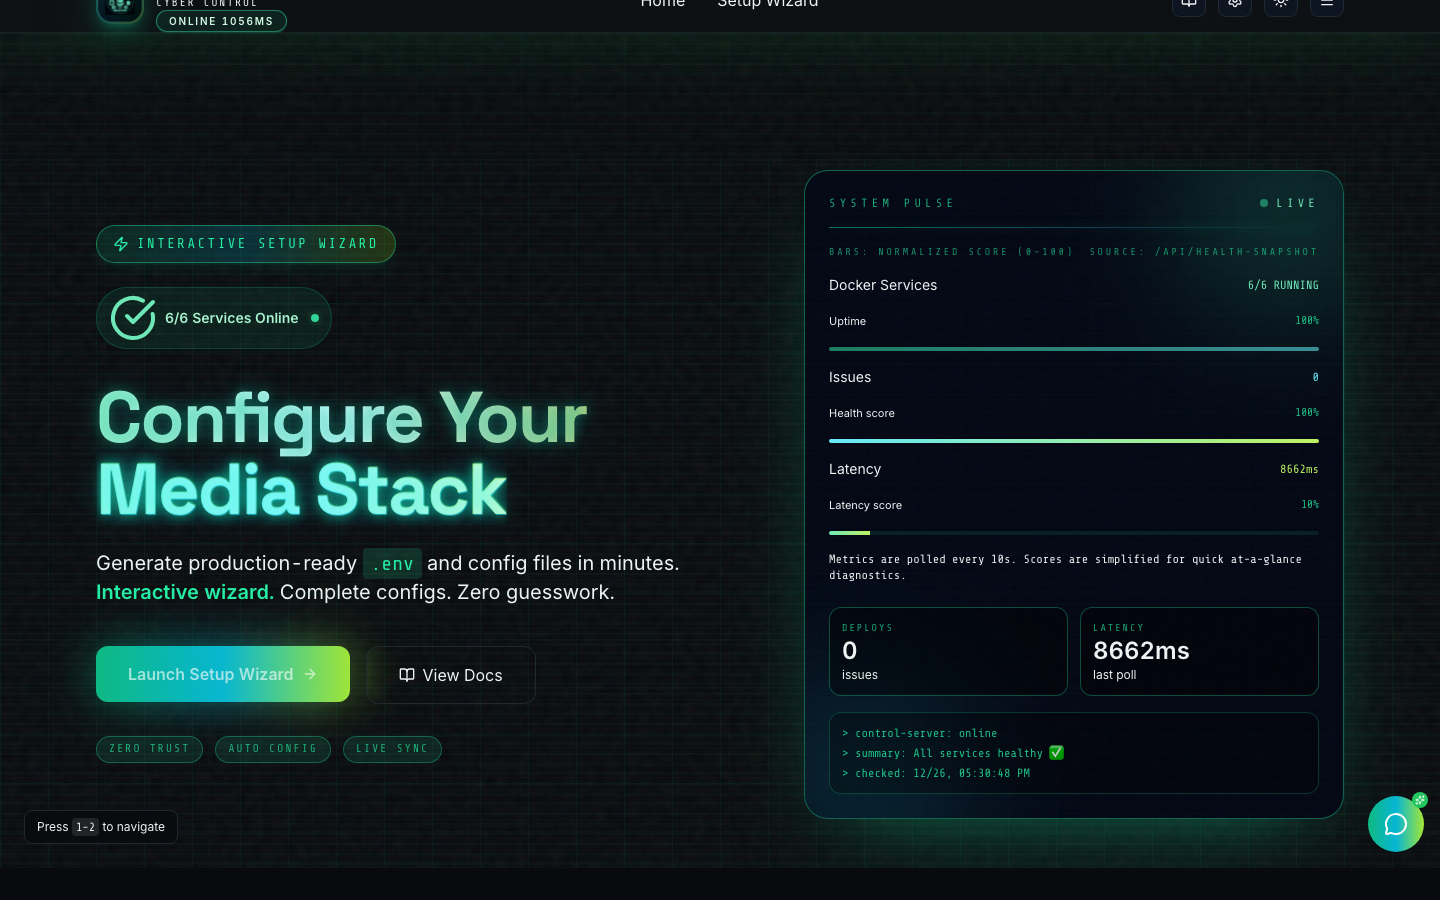
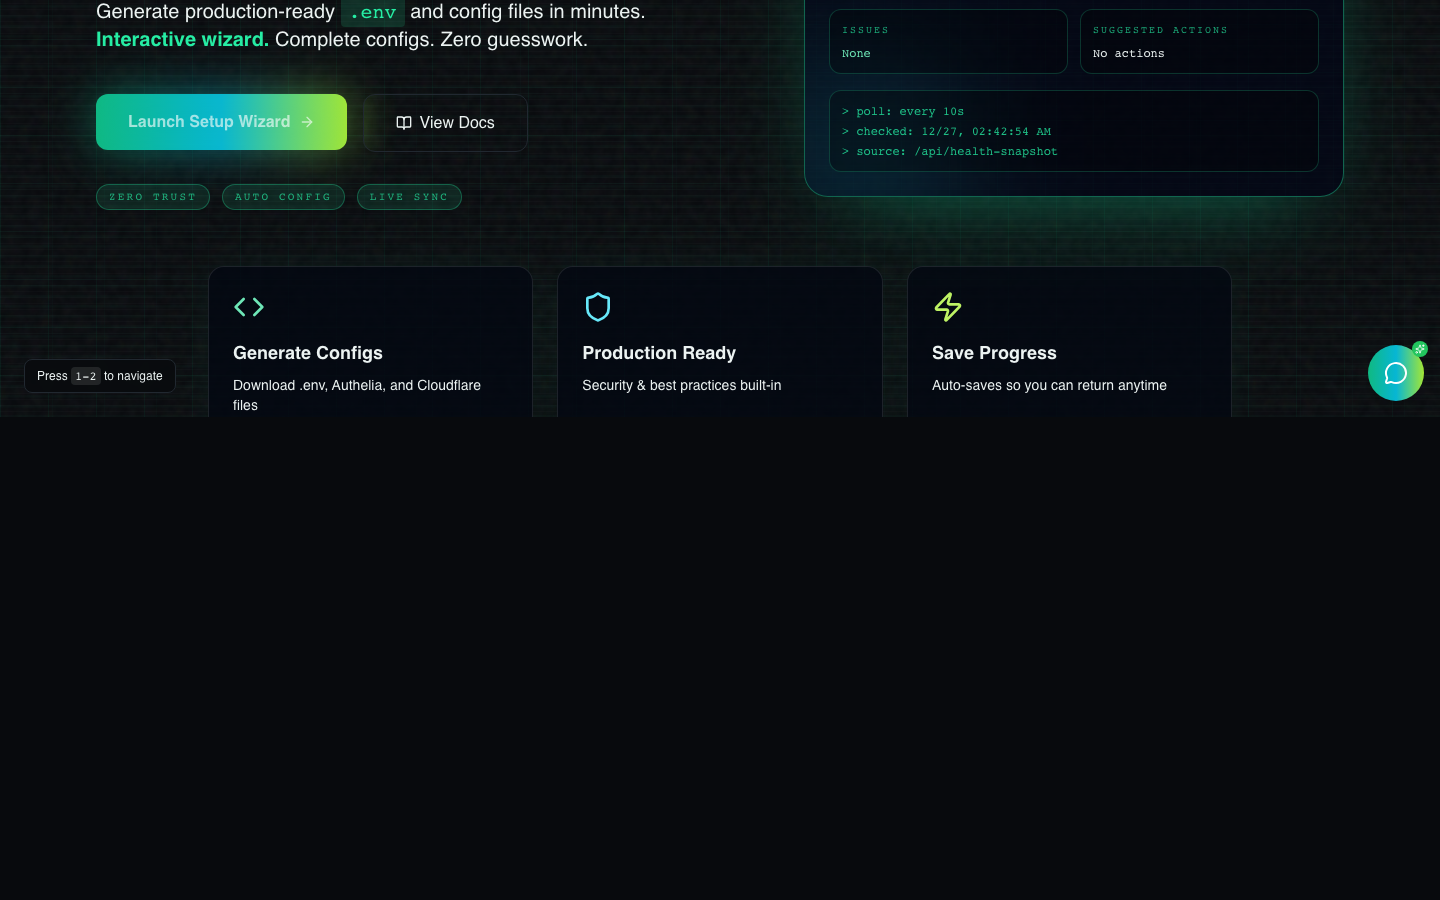
Update docs for TTS, compose commands, and screenshots
Documentation updated to clarify TTS provider defaults (OpenAI with optional ElevenLabs), add new control server endpoints, and improve instructions for storing API keys in Settings. Docker Compose commands are now shown in the modern 'docker compose' format. App list in architecture docs is expanded and clarified. All screenshots and UI images have been refreshed to match the current UI.

diff --git a/docs/architecture/APPS.md b/docs/architecture/APPS.md
@@ -1,26 +1,33 @@
 # Installed Docker Applications
 
-| Application | Docker Image | Version Tag | Description |
+| Application | Docker Image | Tag | Purpose |
 | :--- | :--- | :--- | :--- |
-| **Control Server** | `local/control-server` | `latest` | Orchestration & AI Backend |
-| **Docs Site** | `local/docs-site` | `latest` | Interactive Setup & Guides |
-| **Authelia** | `authelia/authelia` | `latest` | Authentication & Authorization |
-| **Bazarr** | `lscr.io/linuxserver/bazarr` | `latest` | Subtitle Management |
-| **Cloudflared** | `cloudflare/cloudflared` | `latest` | Cloudflare Tunnel Client |
-| **Dozzle** | `amir20/dozzle` | `latest` | Real-time Log Viewer |
-| **FlareSolverr** | `ghcr.io/flaresolverr/flaresolverr` | `latest` | Cloudflare Challenge Solver |
-| **Gluetun** | `qmcgaw/gluetun` | `latest` | VPN Client |
-| **Homepage** | `ghcr.io/gethomepage/homepage` | `latest` | Application Dashboard |
-| **Jellyfin** | `jellyfin/jellyfin` | `latest` | Media Server |
-| **Notifiarr** | `golift/notifiarr` | `latest` | Notifications (Discord) |
-| **Overseerr** | `lscr.io/linuxserver/overseerr` | `latest` | Media Request Management |
-| **Plex** | `lscr.io/linuxserver/plex` | `latest` | Media Server |
-| **Portainer** | `portainer/portainer-ce` | `latest` | Docker Management UI |
-| **Prowlarr** | `lscr.io/linuxserver/prowlarr` | `latest` | Indexer Manager |
-| **qBittorrent** | `lscr.io/linuxserver/qbittorrent` | `latest` | Torrent Client |
-| **Radarr** | `lscr.io/linuxserver/radarr` | `latest` | Movie Management |
-| **Redis** | `redis` | `alpine` | In-memory Data Store |
-| **Sonarr** | `lscr.io/linuxserver/sonarr` | `latest` | TV Show Management |
-| **Tautulli** | `lscr.io/linuxserver/tautulli` | `latest` | Plex Statistics |
-| **Tdarr** | `ghcr.io/haveagitgat/tdarr` | `latest` | Distributed Transcoding |
-| **Watchtower** | `containrrr/watchtower` | `latest` | Container Auto-updater |
+| Traefik | `traefik` | `v3.2` | Reverse proxy + routing |
+| Cloudflared | `cloudflare/cloudflared` | `latest` | Cloudflare Tunnel connector |
+| Authelia | `authelia/authelia` | `latest` | SSO/MFA in front of routes |
+| Redis | `redis` | `alpine` | Session store for Authelia |
+| Homepage | `ghcr.io/gethomepage/homepage` | `latest` | Dashboard landing page |
+| Portainer | `portainer/portainer-ce` | `latest` | Docker management UI |
+| Dozzle | `amir20/dozzle` | `latest` | Browser log viewer |
+| Watchtower | `containrrr/watchtower` | `latest` | Auto-update containers (optional) |
+| Autoheal | `willfarrell/autoheal` | `latest` | Restart unhealthy containers (optional) |
+| Postgres | `postgres` | `16-alpine` | Database for *Arr apps |
+| Sonarr | `lscr.io/linuxserver/sonarr` | `latest` | TV automation |
+| Radarr | `lscr.io/linuxserver/radarr` | `latest` | Movie automation |
+| Prowlarr | `lscr.io/linuxserver/prowlarr` | `latest` | Indexer manager |
+| Overseerr | `lscr.io/linuxserver/overseerr` | `latest` | Media request UI |
+| Bazarr | `lscr.io/linuxserver/bazarr` | `latest` | Subtitle manager |
+| qBittorrent | `lscr.io/linuxserver/qbittorrent` | `latest` | Torrent client |
+| Gluetun | `qmcgaw/gluetun` | `latest` | VPN boundary + kill-switch |
+| FlareSolverr | `ghcr.io/flaresolverr/flaresolverr` | `latest` | Bypass Cloudflare challenges |
+| Plex | `lscr.io/linuxserver/plex` | `latest` | Media server (Plex) |
+| Jellyfin | `jellyfin/jellyfin` | `latest` | Media server (open-source) |
+| Tautulli | `lscr.io/linuxserver/tautulli` | `latest` | Plex analytics |
+| Tdarr | `ghcr.io/haveagitgat/tdarr` | `latest` | Distributed transcoding |
+| Audiobookshelf | `lscr.io/linuxserver/audiobookshelf` | `latest` | Audiobooks/podcasts |
+| Kavita | `lscr.io/linuxserver/kavita` | `latest` | Comics/ebooks server |
+| Mealie | `ghcr.io/mealie-recipes/mealie` | `latest` | Recipe manager |
+| PhotoPrism | `lscr.io/linuxserver/photoprism` | `latest` | Photo management |
+| Notifiarr | `golift/notifiarr` | `latest` | Alerts/notifications |
+
+Wizard components (`control-server`, `docs-site`) run only in `docker-compose.wizard*.yml` and are not part of the primary stack above.

diff --git a/docs/getting-started/QUICK_REFERENCE.md b/docs/getting-started/QUICK_REFERENCE.md
@@ -1,10 +1,10 @@
 <div align="center">
-<img src="docs/images/logo.png" alt="Media Stack Logo" width="100"/>
+<img src="../images/logo.png" alt="Media Stack Logo" width="100"/>
 
 # Quick Reference Guide
 </div>
 
-> **Last Updated:** December 21, 2025
+> **Last Updated:** December 27, 2025
 
 Matrix HUD UI note: screenshots and visuals in the docs reflect the current cyber-matrix theme.
 
@@ -12,7 +12,7 @@ Matrix HUD UI note: screenshots and visuals in the docs reflect the current cybe
 
 ### Start Services
 ```bash
-docker-compose up -d
+docker compose up -d
 ```
 
 ### Local LAN (no SSO/tunnel)
@@ -31,7 +31,7 @@ docker compose --profile auth --profile cloudflared up -d
 
 ### Stop Services
 ```bash
-docker-compose down
+docker compose down
 ```
 
 ### Start Wizard (Docker Mode)
@@ -59,17 +59,17 @@ docker compose -f docker-compose.wizard.yml up -d
 ### View Logs
 ```bash
 # All services
-docker-compose logs -f
+docker compose logs -f
 
 # Specific service
-docker-compose logs -f authelia
-docker-compose logs -f plex
-docker-compose logs -f gluetun
+docker compose logs -f authelia
+docker compose logs -f plex
+docker compose logs -f gluetun
 ```
 
 ### Restart a Service
 ```bash
-docker-compose restart servicename
+docker compose restart servicename
 ```
 
 ### Interactive Setup (TUI)
@@ -84,8 +84,8 @@ docker-compose restart servicename
 ### Update Containers
 ```bash
 # Manual update (Watchtower handles this automatically usually)
-docker-compose pull
-docker-compose up -d
+docker compose pull
+docker compose up -d
 ```
 
 ### Post‑deploy sanity checks (recommended)
@@ -136,6 +136,7 @@ After setup, access services using the subdomains defined in `.env`:
 - **Wake Word**: None. Just click the mic button.
 - **Microphone Issues?**: Use the **Text Input** box at the bottom of the specialized modal.
 - **Privacy**: No audio is recorded to disk. Transcripts are sent to OpenAI for processing only.
+- **Audio quality**: With an OpenAI key saved in **Settings**, the wizard uses OpenAI TTS (`gpt-5.2-mini-tts` with fallback); ElevenLabs is optional via API key + voice ID.
 - **Context**: The AI knows about "Plex", "Arr stack", "NAS", and "VPS". Use these terms for best results.
 
 
@@ -168,13 +169,13 @@ sudo chown -R 1000:1000 /srv/mediastack
 
 ### Clear and Restart
 ```bash
-docker-compose down
-docker-compose up -d
+docker compose down
+docker compose up -d
 ```
 
 ### Check Container Status
 ```bash
-docker-compose ps
+docker compose ps
 ```
 
 ### View Container Resource Usage
@@ -225,15 +226,15 @@ docker run --rm authelia/authelia:latest authelia crypto hash generate argon2 --
 
 ### Stop everything and remove containers (data preserved)
 ```bash
-docker-compose down
+docker compose down
 ```
 
 ### Stop and remove everything including volumes (⚠ DANGER)
 ```bash
-docker-compose down -v
+docker compose down -v
 ```
 
 ### Force recreate containers
 ```bash
-docker-compose up -d --force-recreate
+docker compose up -d --force-recreate
 ```

diff --git a/README.md b/README.md
@@ -48,7 +48,7 @@ python docs/scripts/render_diagrams.py
 KEEP_LOGO=1 python docs/scripts/render_marketing_assets.py
 ```
 
-> **Last updated:** December 22, 2025
+> **Last updated:** December 27, 2025
 
 ## ✨ Screenshots (Matrix HUD)
 
@@ -361,14 +361,15 @@ Media Stack GA features a powerful Agentic System that allows you to manage your
 - **AI-Powered Operations**: Inspect container health, analyze logs, and run common stack commands (when the control server has Docker access).
 - **Config Validation**: Quick checks for `.env`, YAML, and JSON config issues before you deploy.
 - **Smart Configuration**: Get AI-driven recommendations for environment variables and service settings.
-- **Voice Companion**: Control and configure your stack using voice commands through the integrated Voice Companion.
+- **Voice Companion**: Control and configure your stack using voice commands; high-quality TTS uses OpenAI voices by default with an optional ElevenLabs provider, configurable via **Settings → Voice output**.
 - **Arr-Stack Bootstrapping**: Automatically extract and sync API keys from running Sonarr, Radarr, Prowlarr, and other services.
+- **Hardened Control Server**: Docker calls are project-scoped, concurrency-limited, and cached; use `/api/system/status` for compose context/cache age and `/api/system/reload` when managed by PM2/systemd.
 
 ### Remote deploy + voice quality
 
 - **Remote Deploy** uses the control server (`/api/remote-deploy/*`) and works automatically when the UI is running behind a proxy that forwards `/api` (Docker Wizard mode does this). For static-hosted UIs, set `VITE_CONTROL_SERVER_URL` (or use Settings → “Control Server Connection”).
 - If the control server is started with `CONTROL_SERVER_TOKEN`, also set `VITE_CONTROL_SERVER_TOKEN` (or enter the token in Settings) so the UI can authenticate.
-- For more natural voice output, you can optionally enable ElevenLabs TTS via `ELEVENLABS_API_KEY` + `ELEVENLABS_VOICE_ID` and set `TTS_PROVIDER=elevenlabs` (or configure it in Settings).
+- High-quality voice output defaults to OpenAI TTS (`gpt-5.2-mini-tts` with fallback) when an OpenAI API key is present; ElevenLabs is optional via `ELEVENLABS_API_KEY` + `ELEVENLABS_VOICE_ID` (both are configurable from the Settings page).
 
 <p align="center">
   <img src="docs/images/voice_companion_demo.png" alt="Voice companion onboarding" width="1100" />
@@ -626,6 +627,7 @@ docker compose up -d
 ## ✅ Tests & stress
 
 ```bash
+npm run check        # lint + control-server tests + docs-site smoke
 npm run lint
 npm test
 npm run stress
@@ -647,6 +649,7 @@ npm run stress
 - `docker compose logs -f cloudflared`
 - `docker compose logs -f authelia`
 - `docker compose logs -f gluetun`
+- `curl http://127.0.0.1:3001/api/system/status` (compose context, cache age, restart hints)
 - `./scripts/doctor.sh` (local diagnostics)
 - `./scripts/post_deploy_check.sh` (VPN/Auth/Tunnel sanity — see `docs/operations/POST_DEPLOY_CHECKS.md`)
 

diff --git a/CLAUDE.md b/CLAUDE.md
@@ -31,6 +31,7 @@ npm run build -w docs-site       # Build docs-site only
 
 ### Testing
 ```bash
+npm run check            # Quick lint + control-server tests + docs-site smoke
 npm test                 # Run all workspace tests
 npm test -w control-server       # Run control-server vitest tests
 npm test -w docs-site            # Run docs-site Playwright tests
@@ -57,6 +58,7 @@ Fastify-based API server that provides:
 - **AI routes** (`/api/agents/*`) - AI assistant endpoints for config validation
 - **Remote routes** (`/api/remote-deploy/*`) - SSH-based remote deployment
 - **Arr routes** (`/api/arr/*`) - \*Arr stack API key extraction
+- **TTS + Settings** (`/api/tts`, `/api/settings/*`) - OpenAI/ElevenLabs voice output plus API key/status management
 
 Key files:
 - `src/index.ts` - Server entrypoint with security checks for exposed hosts

diff --git a/docs/PLAN_MODERNIZATION.md b/docs/PLAN_MODERNIZATION.md
@@ -2,7 +2,7 @@
 
 This repo is already a strong “wizard + compose” stack. The goal of this plan is to make it **cleaner to navigate**, **safer to deploy**, and **more reliable to operate**, while keeping changes incremental and reversible.
 
-> **Last reviewed:** December 22, 2025 — Deployment and monitoring stay Docker + SSH only. Refresh screenshots alongside doc edits so the docs-site stays in sync with the UI.
+> **Last reviewed:** December 27, 2025 — Deployment and monitoring stay Docker + SSH only. Screenshots regenerated via Playwright alongside this doc refresh.
 > **Status notes:** Stress harness passes with new status endpoints; Authelia state requires forwarded headers; VPN profile depends on `/dev/net/tun`; Cloudflare Tunnel needs a real token.
 
 ## What changed already (from the shared spec)

diff --git a/docs/getting-started/START_HERE.md b/docs/getting-started/START_HERE.md
@@ -76,9 +76,10 @@ open http://localhost:3002   # macOS
 - If you click **Deploy** twice, the control server rejects the duplicate request with **HTTP 409** (“deployment already in progress”).
 - After SSH connects, the deploy collects a best-effort **remote container snapshot** (name + on/off) and shows it in the UI.
 - Remote deploy does not configure DNS or Cloudflare; see “After Setup” below.
+- Use **Settings** to store the control-server URL/token (when self-hosting the UI) and optional OpenAI/ElevenLabs keys for higher-quality voice output.
 
 <p align="center">
-  <img src="images/app/09-remote-deploy-desktop.png" alt="Remote deploy modal" width="1100" />
+  <img src="../images/app/09-remote-deploy-desktop.png" alt="Remote deploy modal" width="1100" />
 </p>
 
 **Stop the wizard when done:**

diff --git a/docs/archive/UI_SHOWCASE.md b/docs/archive/UI_SHOWCASE.md
@@ -1,5 +1,5 @@
 <div align="center">
-<img src="docs/images/logo.png" alt="Media Stack Logo" width="120"/>
+<img src="../images/logo.png" alt="Media Stack Logo" width="120"/>
 
 # 🎨 UI Showcase - Media Stack Updates
 </div>
@@ -9,13 +9,13 @@
 The interface uses a cyber-matrix aesthetic with layered scanlines, neon HUD panels, glitch accents, and interactive motion.
 
 ### 🎨 Hero Experience (Matrix HUD)
-![Hero Dark Mode](docs/images/hero.png)
+![Hero Dark Mode](../images/hero.png)
 
 ### 🪄 Interactive Wizard (Step‑by‑Step)
-![Wizard Dark Mode](docs/images/wizard.png)
+![Wizard Dark Mode](../images/wizard.png)
 
 ### 📖 Adaptive Documentation (Docs Hub)
-![Docs Dark Mode](docs/images/docs.png)
+![Docs Dark Mode](../images/docs.png)
 
 ---
 

diff --git a/docs/getting-started/DOCKER_WIZARD.md b/docs/getting-started/DOCKER_WIZARD.md
@@ -1,5 +1,5 @@
 <div align="center">
-<img src="docs/images/logo.png" alt="Media Stack Logo" width="100"/>
+<img src="../images/logo.png" alt="Media Stack Logo" width="100"/>
 
 # Dockerized Media Stack Wizard
 </div>
@@ -68,6 +68,7 @@ Remote deploy works from the wizard UI because the containerized UI proxies `/ap
 - Remote host must have Docker + Docker Compose installed.
 - Password auth requires `sshpass` inside the control server environment.
 - Remote deploy does not create DNS records or tunnel routes.
+- Use **Settings** to set the control-server URL/token when self-hosting the UI and to store OpenAI/ElevenLabs keys for high-quality voice output.
 
 ### Access after remote deploy
 
